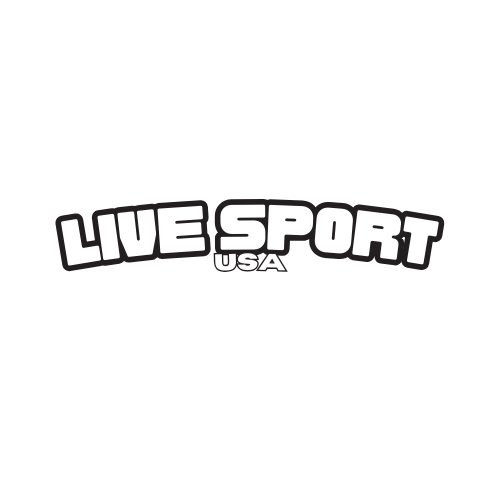
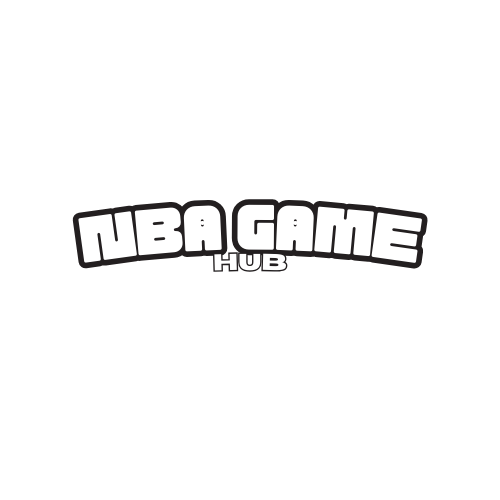
Changed to NBA website LOL

Changed region(s): [[0.09, 0.39, 0.9, 0.57], [0.63, 0.39, 0.66, 0.45]]

diff --git a/index.html b/index.html
@@ -5,7 +5,7 @@
       <meta charset="UTF-8">
       <meta name="viewport" content="width=device-width, initial-scale=1.0">
       <meta http-equiv="X-UA-Compatible" content="ie=edge">
-      <title>Live Sport USA!</title>
+      <title>NBA Game Hub!</title>
       <link rel="stylesheet" href="./assets/style.css">
       <link href="https://fonts.googleapis.com/css2?family=Poppins&display=swap" rel="stylesheet">
   </head>
@@ -23,9 +23,7 @@
                 </div>
               </div>
               <div class="navbar-end">
-                <a class="navbar-item league-item" href="#">NBA</a>
-                <a class="navbar-item league-item" href="#">NFL</a>
-                <a class="navbar-item league-item" href="#">MLB</a>
+                <a class="navbar-item league-item" href="https://twitter.com/NBA?ref_src=twsrc%5Egoogle%7Ctwcamp%5Eserp%7Ctwgr%5Eauthor">NBA Twitter</a>
               </div>
           </div>
       </nav>
@@ -109,7 +107,7 @@
       </div>
       <div class="upcoming-social">
         <div class="social-media">
-          <p>social media</p>
+          <p> This website allows you to search for upcoming games for a specific team by entering the team's name in a title format, such as 'Team Name.' It provides information on the associated date and other details. </p>
         </div>
         <div class="live-games">
           <p>live games</p>

diff --git a/assets/style.css b/assets/style.css
@@ -201,3 +201,15 @@
 .team-name {
     width: 100px;
 }
+
+.social-media {
+    font-size: 20px;
+    display: flex;
+    justify-content: center;
+    align-items: center;
+}
+
+.social-media p {
+    margin-left: 30px;
+    margin-right: 30px;
+}
